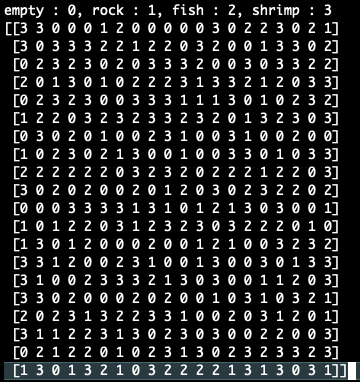
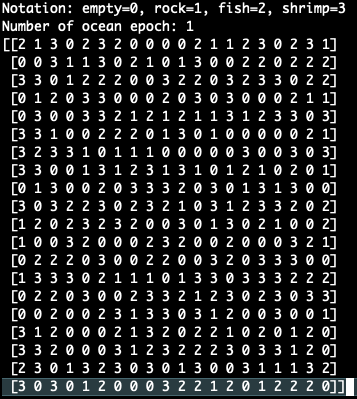
Add number of ocean simulating epoch

diff --git a/game_life.py b/game_life.py
@@ -140,19 +140,22 @@ if __name__ == '__main__':
     curses.noecho()
     curses.cbreak()
     
+    cnt = 1
     try:
         while True:
-            stdscr.addstr(0, 0, 'empty : 0, rock : 1, fish : 2, shrimp : 3')
-            stdscr.addstr(1, 0, np.array2string(ocean))
+            stdscr.addstr(0, 0, 'Notation: empty=0, rock=1, fish=2, shrimp=3')
+            stdscr.addstr(1, 0, 'Number of ocean epoch: {}'.format(cnt))
+            stdscr.addstr(2, 0, np.array2string(ocean))
             stdscr.refresh()
             sleep(1)
             ocean_prev = np.copy(ocean)
             ocean = step_ocean(ocean)
+            cnt += 1
             # если океан стационарен, то конец цикла
             if np.array_equal(ocean_prev, ocean):
-                stdscr.addstr(n + 1, 0, 'Ocean is fixed!')
+                stdscr.addstr(n + 2, 0, 'Ocean is fixed!')
                 for i in range(5):
-                    stdscr.addstr(n + 2, 0, 'Application quits in next 5 seconds: {}'.format(i+1))
+                    stdscr.addstr(n + 3, 0, 'Application quits in next 5 seconds: {}'.format(i+1))
                     stdscr.refresh()
                     sleep(1)
                 break
